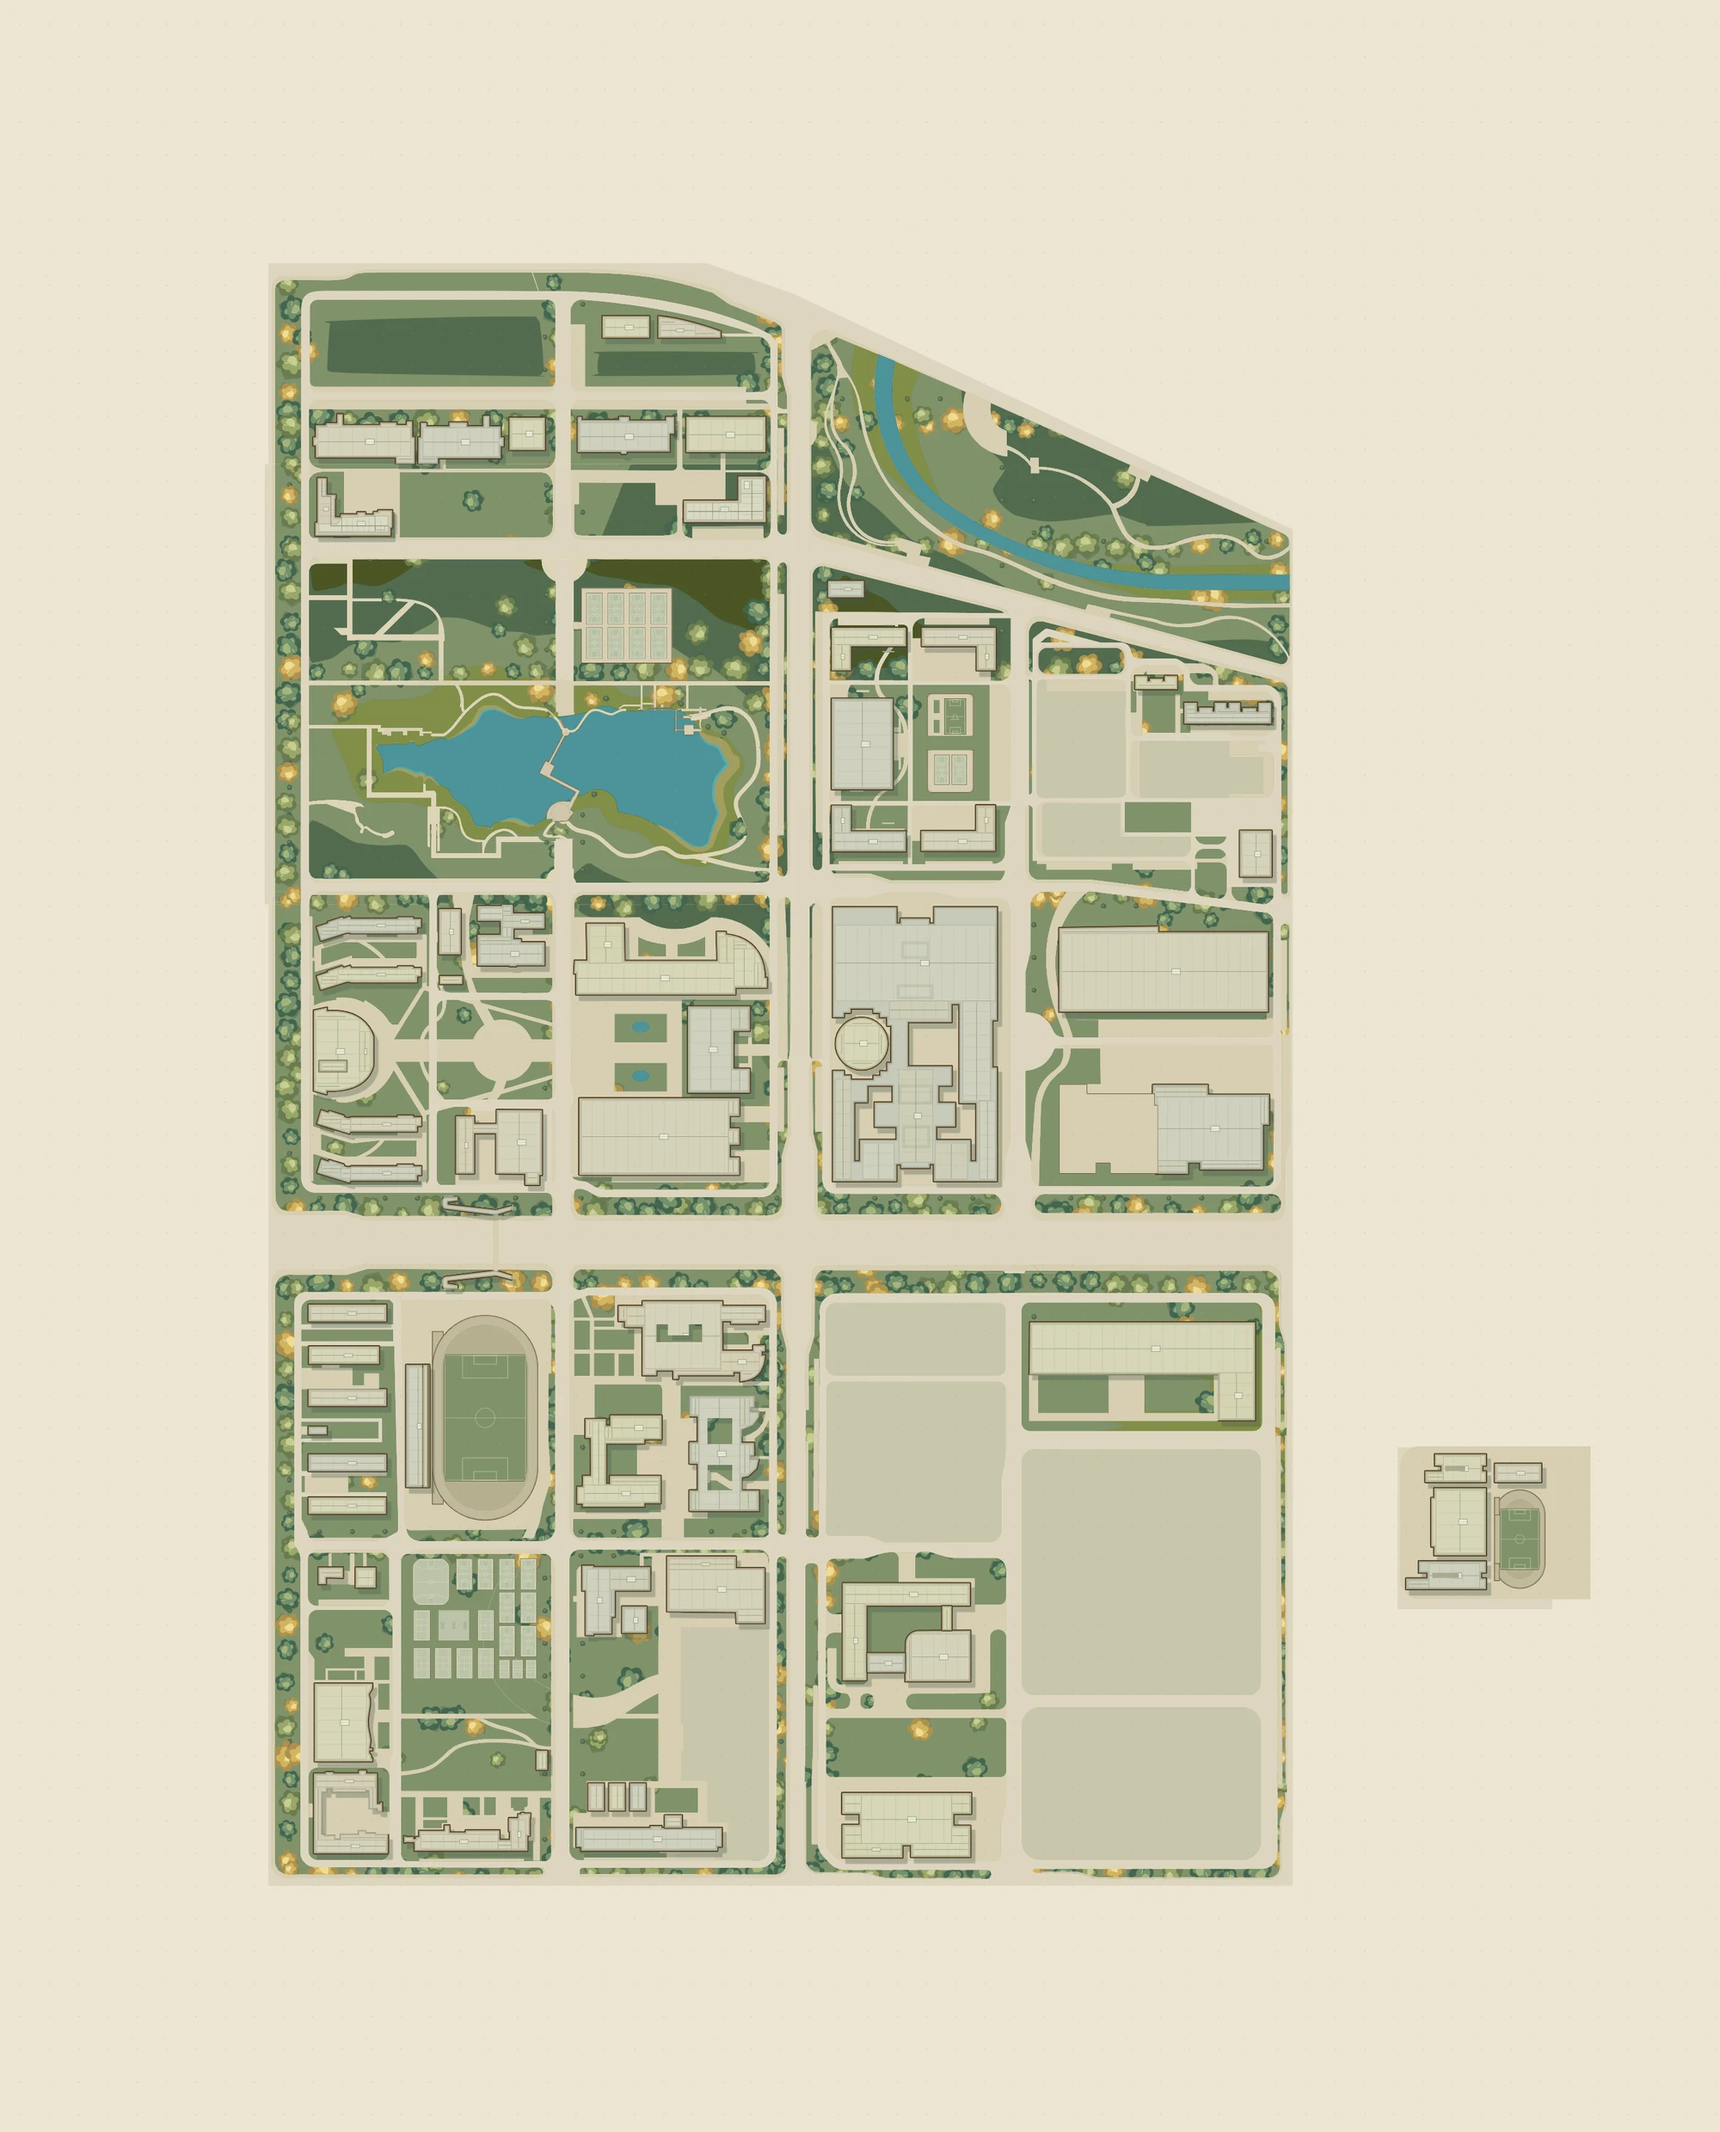
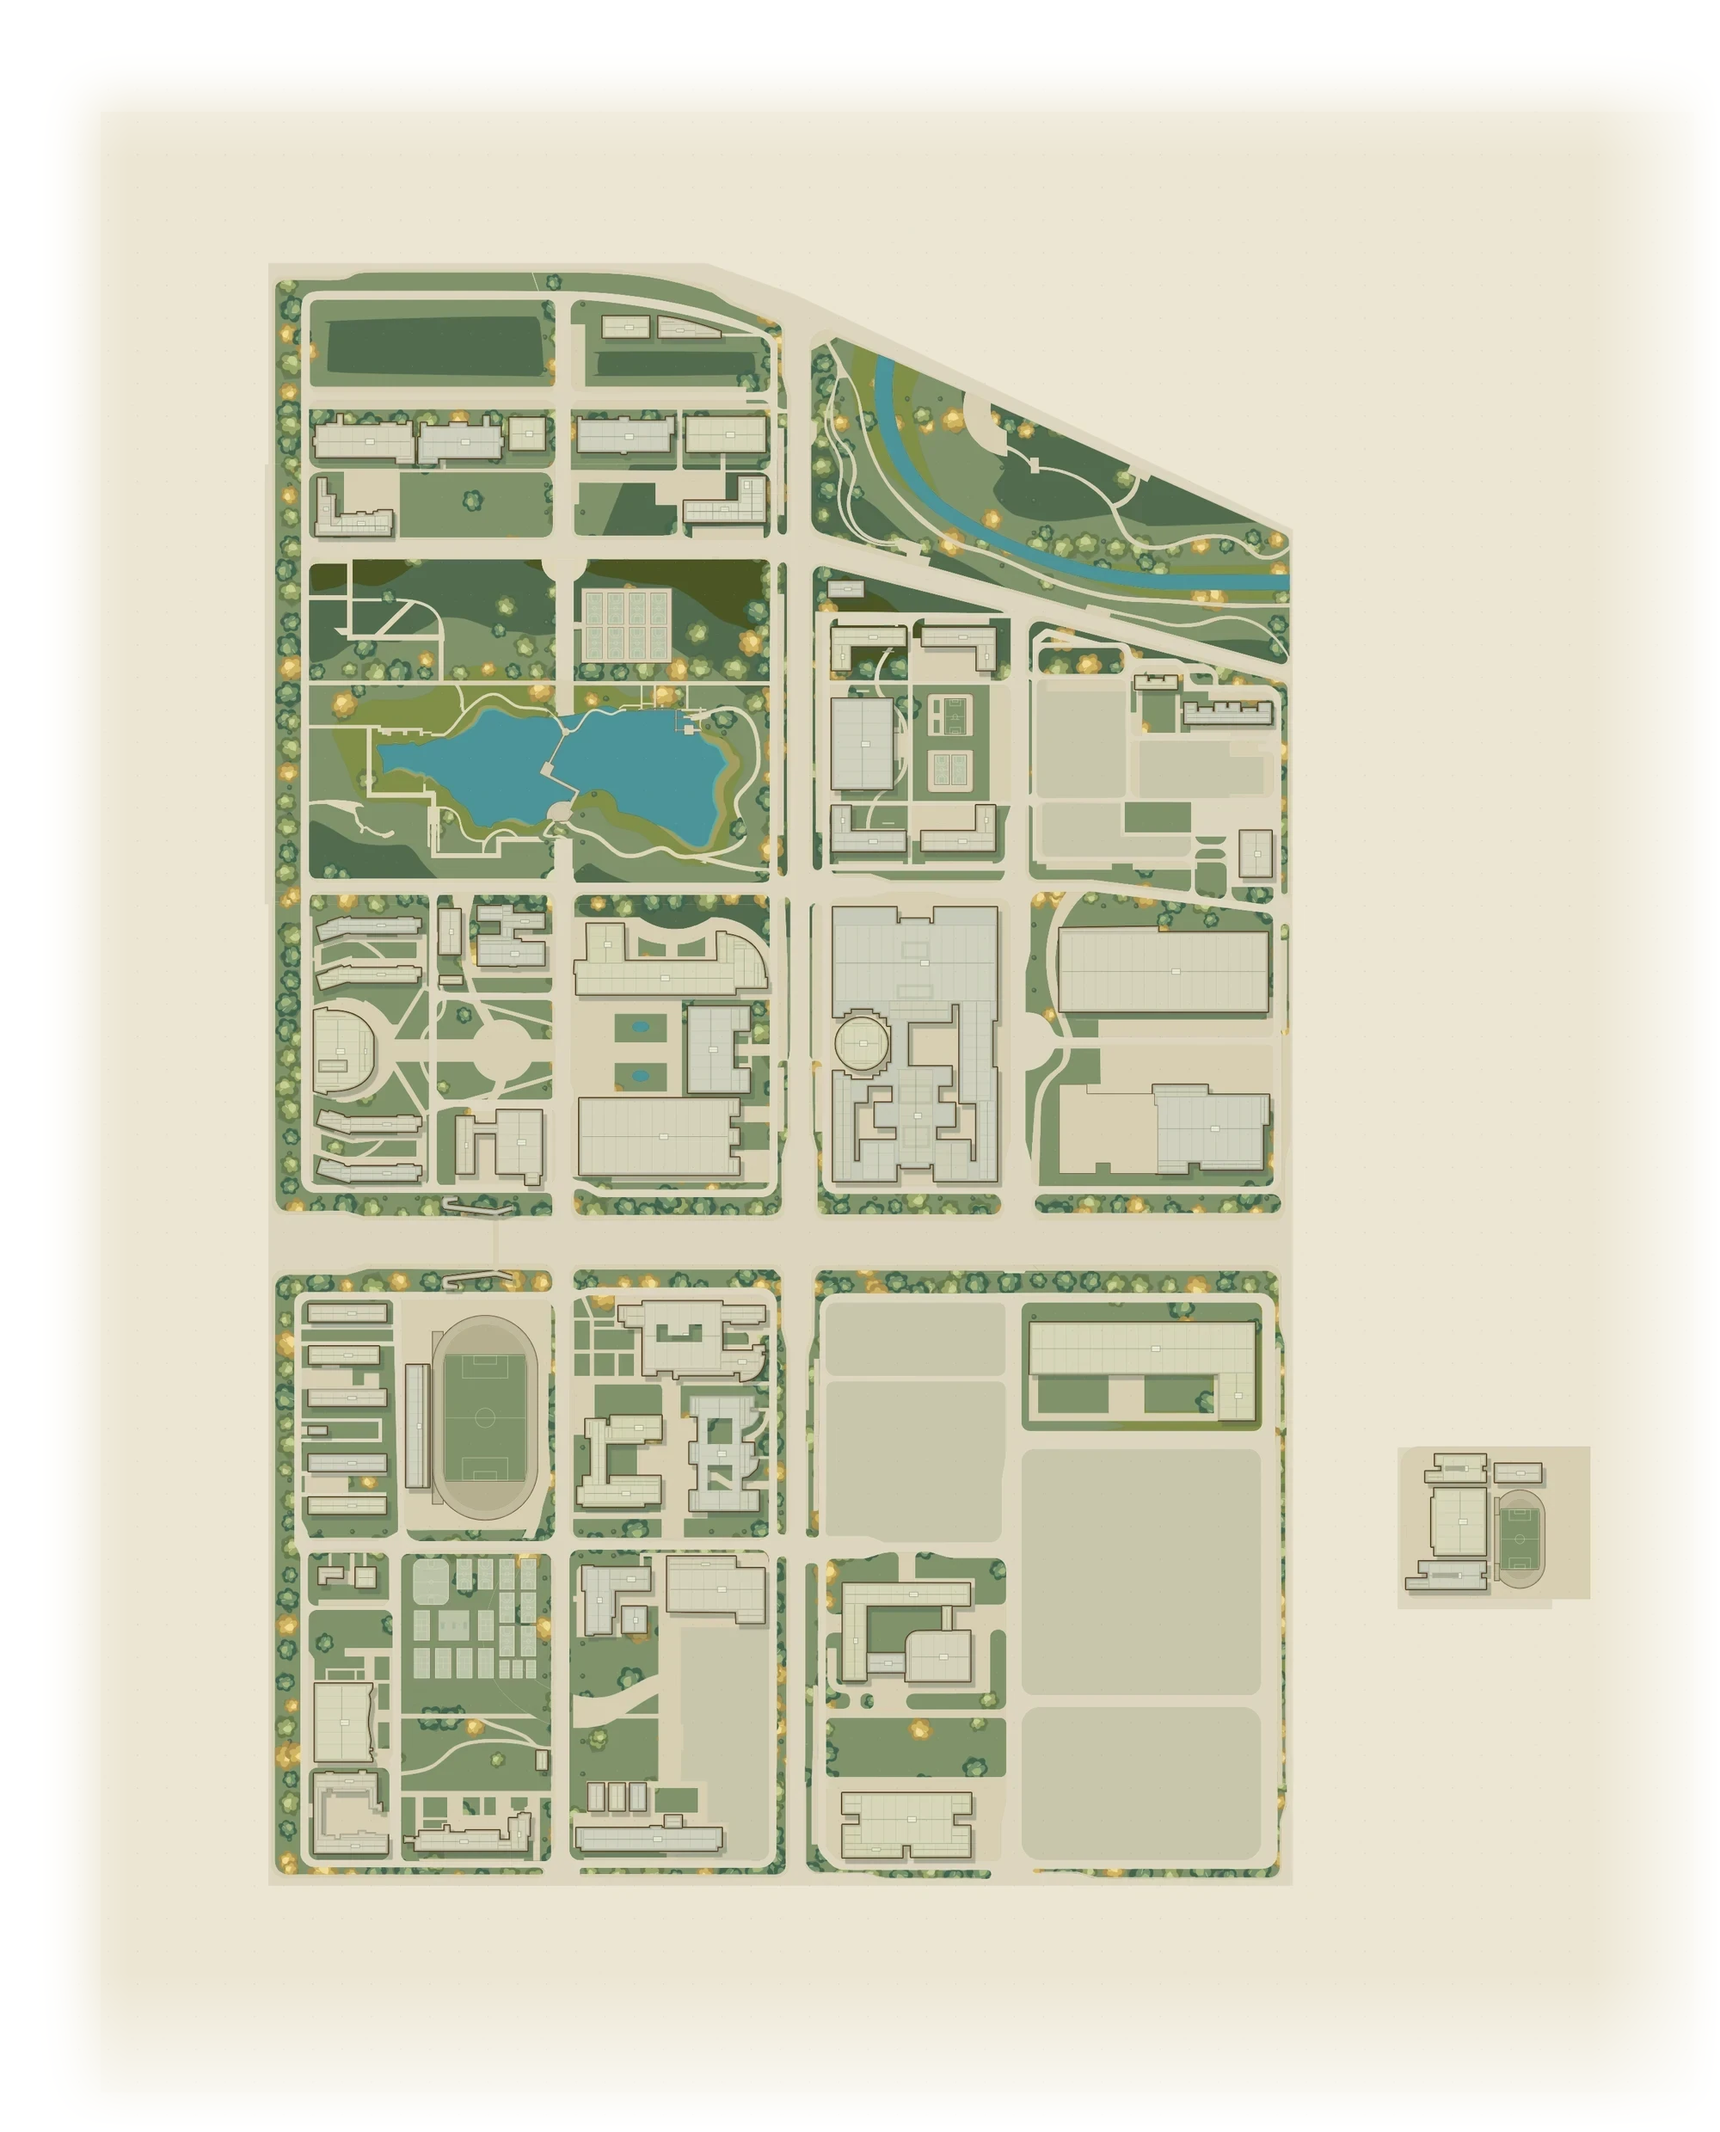
feat: 地图图片烘入透明边缘，白纸底彻底融进背景画
- 三张地图位图（campus / campus-enhanced / campus-enhanced-mobile）在 PIL 里烘入 alpha 边缘羽化（7.5%，campus 5%）
- campus.webp 额外用纸色连通域抠掉四周白纸边（内容盒 616,613-3698,4384）
- .map-scene 底色改为 transparent，地图以外的区域直接透出背景插画
- .map-ground-vignette 暗角从 .34/.18 降到 .10/.06，避免在画面上压出暗带
- 去掉 .map-base-image 的 CSS 蒙版（已由图片自带 alpha 完成）

Changed region(s): [[0.0, 0.0, 1.0, 1.0]]

diff --git a/apps/liyun-explorer/src/map/map.css b/apps/liyun-explorer/src/map/map.css
@@ -1,9 +1,9 @@
-.map-scene{position:absolute;inset:0;touch-action:none;overflow:hidden;cursor:grab;user-select:none;-webkit-user-select:none;background:radial-gradient(ellipse 80% 76% at 50% 47%,#ece7d1 0%,#e9e5cc 42%,#e3e5cf 68%,#dae1ce 88%,#d4ddca 100%)}
+.map-scene{position:absolute;inset:0;touch-action:none;overflow:hidden;cursor:grab;user-select:none;-webkit-user-select:none;background:transparent}
 .map-scene.is-dragging{cursor:grabbing}
 .map-world{position:absolute;left:0;top:0;transform-origin:0 0;z-index:1;pointer-events:none;will-change:transform}
-.map-base-image{position:absolute;inset:0;width:100%;height:100%;pointer-events:none;object-fit:fill;mask-image:radial-gradient(ellipse 86% 86% at 50% 50%,#000 58%,#000000e6 74%,#00000088 88%,transparent 100%);-webkit-mask-image:radial-gradient(ellipse 86% 86% at 50% 50%,#000 58%,#000000e6 74%,#00000088 88%,transparent 100%)}
+.map-base-image{position:absolute;inset:0;width:100%;height:100%;pointer-events:none;object-fit:fill}
 .map-water-ribbons{position:absolute;inset:0;width:100%;height:100%;pointer-events:none;mask-image:radial-gradient(ellipse 86% 86% at 50% 50%,#000 58%,transparent 100%);-webkit-mask-image:radial-gradient(ellipse 86% 86% at 50% 50%,#000 58%,transparent 100%)}
-.map-ground-vignette{position:absolute;inset:0;z-index:2;pointer-events:none;background:linear-gradient(90deg,rgba(21,53,43,.34),transparent 30%,transparent 83%,rgba(26,52,43,.2)),linear-gradient(0deg,rgba(28,49,39,.18),transparent 18%,transparent 77%,rgba(23,52,41,.22))}
+.map-ground-vignette{position:absolute;inset:0;z-index:2;pointer-events:none;background:linear-gradient(90deg,rgba(21,53,43,.10),transparent 26%,transparent 86%,rgba(26,52,43,.07)),linear-gradient(0deg,rgba(28,49,39,.06),transparent 16%,transparent 80%,rgba(23,52,41,.08))}
 .map-markers{position:absolute;inset:0;z-index:4;pointer-events:none}
 .map-marker{position:absolute;display:flex;align-items:center;gap:0;height:54px;max-width:280px;padding:0;border:0;background:transparent;color:#fff4d4;transform:translate(-25px,-27px);pointer-events:auto;cursor:pointer;text-align:left;white-space:nowrap;font-family:inherit;filter:drop-shadow(0 3px 3px #19332855);-webkit-tap-highlight-color:transparent;isolation:isolate;transition:filter .2s}
 .map-marker-gem{display:block;position:relative;width:51px;height:51px;flex:none;border:2px solid #e4cf95;background:#27453f;transform:rotate(45deg) scale(.72);box-shadow:inset 0 0 0 2px #33574b,inset 0 0 0 3px #bda77366;z-index:2;border-radius:5px}
